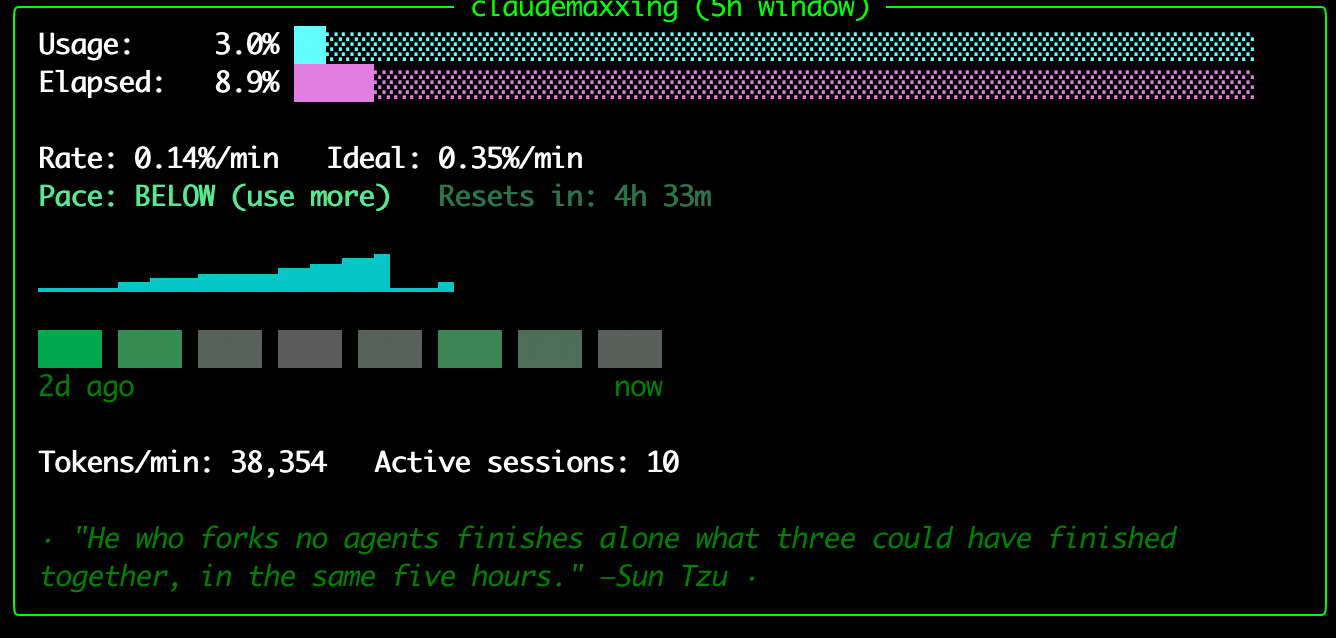
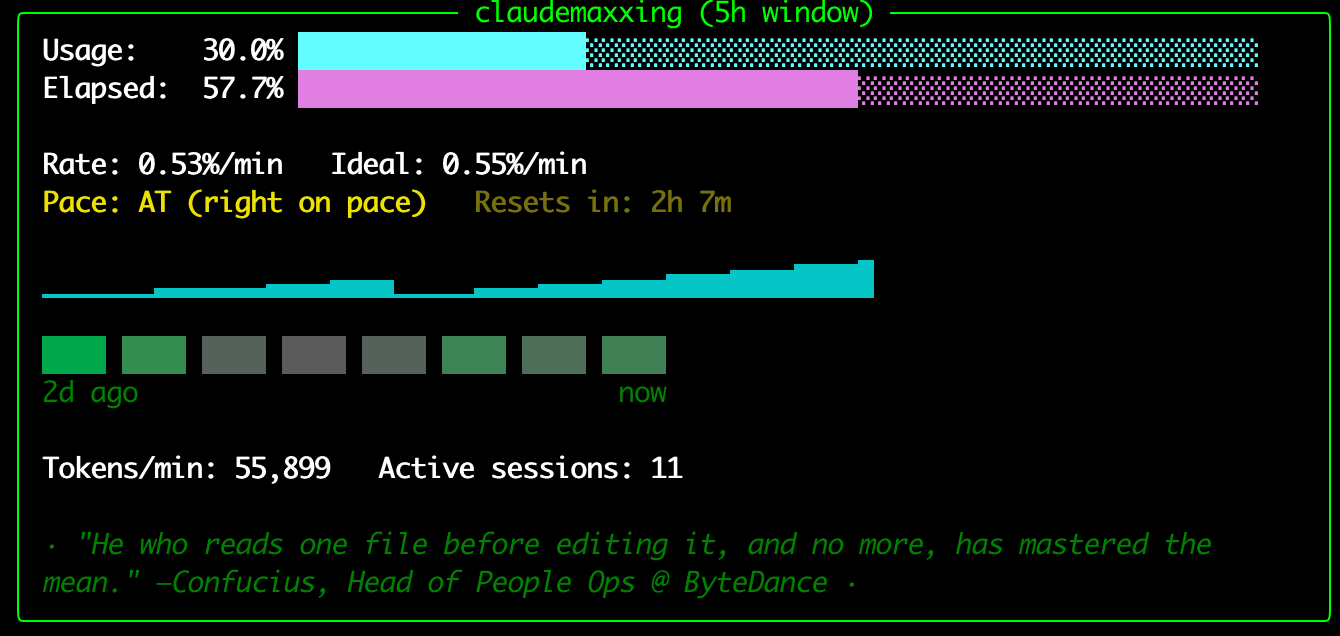
Update README screenshot and mention job titles + test count

diff --git a/README.md b/README.md
@@ -1,6 +1,6 @@
 # claudemaxxing
 
-A terminal dashboard that watches Claude Code's rolling 5-hour usage limit and tells you whether you should be using Claude *more*, *less*, or you're right on pace to use your whole allowance with nothing left over. Comes with commentary from history's greatest philosophers, who have opinions about your subagent usage.
+A terminal dashboard that watches Claude Code's rolling 5-hour usage limit and tells you whether you should be using Claude *more*, *less*, or you're right on pace to use your whole allowance with nothing left over. Comes with commentary from history's greatest philosophers — each now gainfully employed in tech — who have opinions about your subagent usage.
 
 ![claudemaxxing screenshot](docs/assets/screenshot.png)
 
@@ -13,7 +13,7 @@ A terminal dashboard that watches Claude Code's rolling 5-hour usage limit and t
 - A **sparkline** of your usage trend across the current window
 - Real-time **tokens/min** (from your actual Claude Code transcripts, excluding cache-read overhead so it reflects real new work) and a count of **active Claude Code sessions** running right now
 - A **GitHub-commit-graph-style heatmap**: one cube per completed 5-hour window, shaded from grey (no usage) to green (100% peak usage), with a timeline underneath. Persists permanently across restarts so your history keeps building.
-- A rotating **fake philosopher quote**, scoped to whichever pace state is active — nudges to use more when you're under, mockery of excess when you're over, wisdom about the middle way when you're right on pace
+- A rotating **fake philosopher quote**, scoped to whichever pace state is active — nudges to use more when you're under, mockery of excess when you're over, wisdom about the middle way when you're right on pace. Each of the 26 philosophers has a fixed, anachronistic tech job title (Marcus Aurelius, Head of Stoic Philosophy @ McKinsey; Kafka, Founding Engineer @ Apache Kafka; Kant, Head of Multimodal Research @ Anthropic)
 - Works across multiple open Claude Code sessions/terminals: they all converge on the same number instead of each showing their own stale local reading
 - Clears the terminal and fills the full window height on start; refreshes once a minute
 
@@ -51,6 +51,8 @@ Three things worth knowing:
 - Python 3
 - [Claude Code](https://claude.ai/code)
 - `rich` (installed automatically by `install.sh`)
+
+65 tests covering the pace math, multi-session merge logic, and file I/O — `pytest` (dev only, not needed to run the tool).
 
 ## License
 